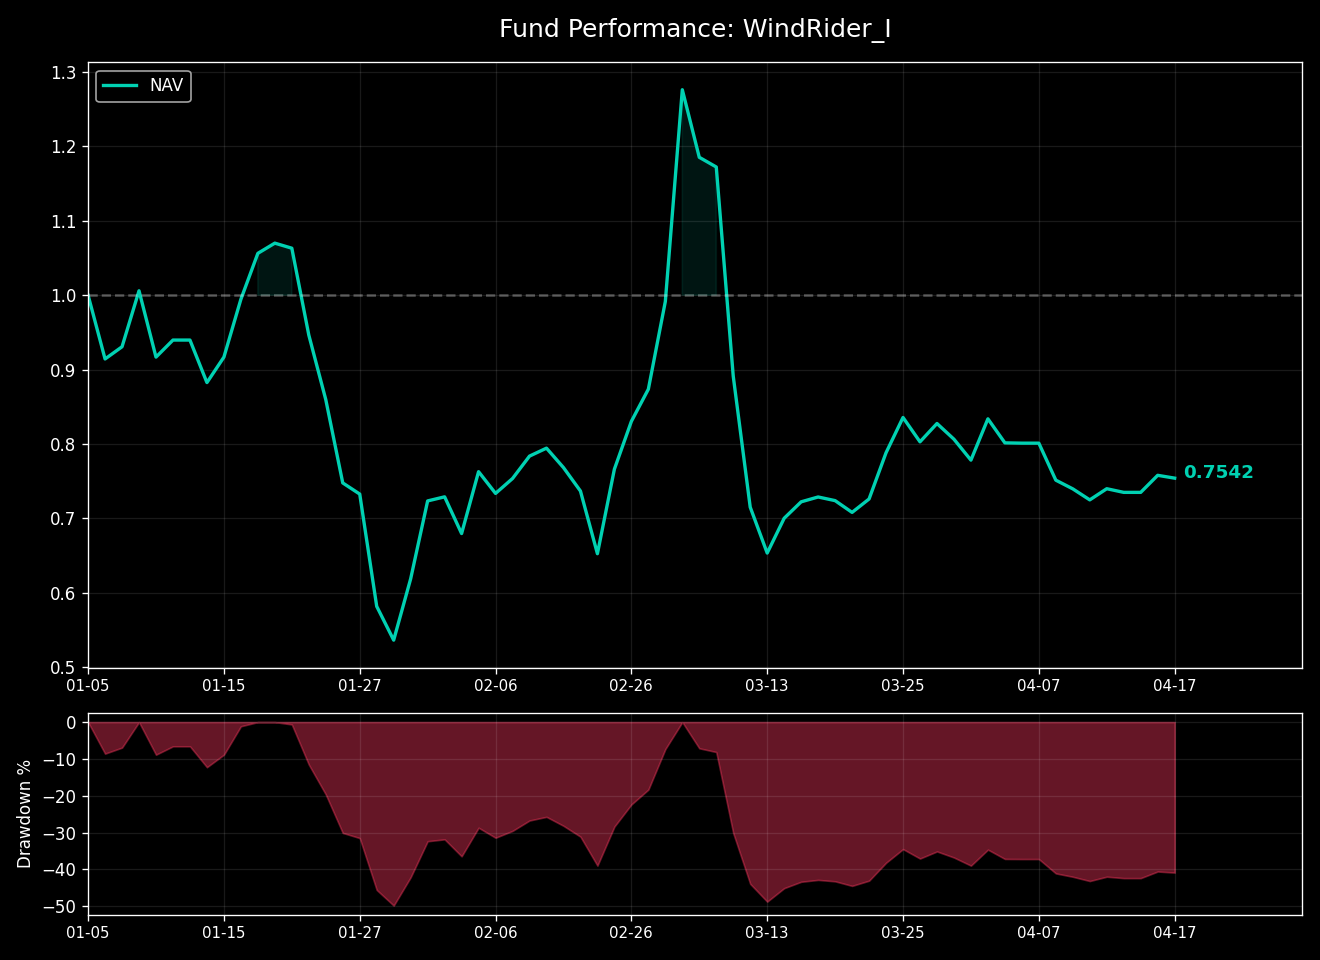
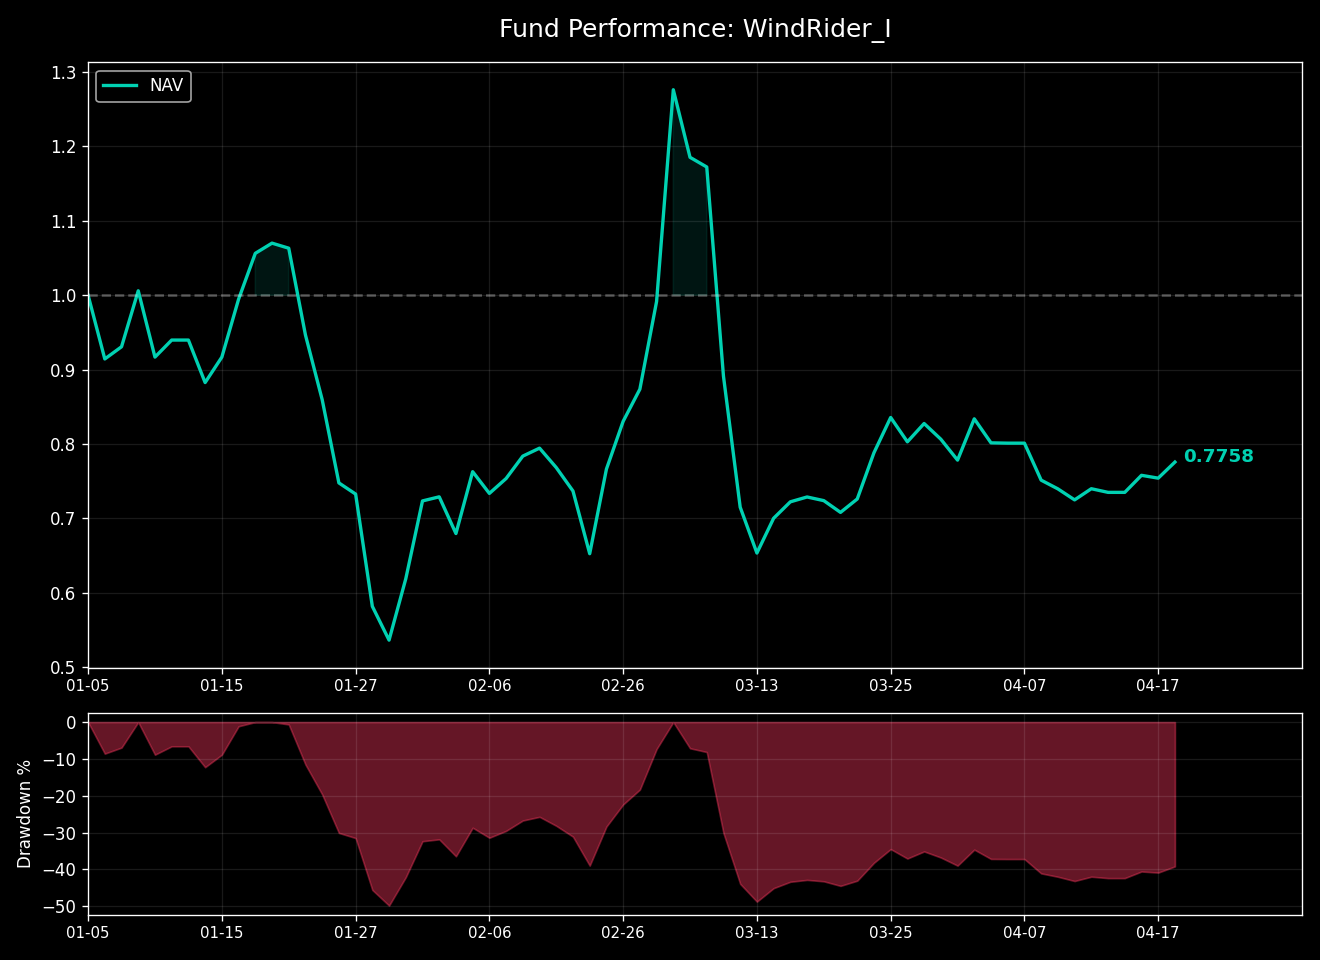
Updated Hugo site content

diff --git a/content/investment/windrider-1.md b/content/investment/windrider-1.md
@@ -1,8 +1,8 @@
 +++
 title = "风舵1号 (WindRider I)  /// 指数"
 summary = "商品期货分形摆动策略，实盘最新净值与核心风险指标。"
-date = 2026-04-17T15:15:04+08:00
-lastmod = 2026-04-17T15:15:04+08:00
+date = 2026-04-20T15:15:03+08:00
+lastmod = 2026-04-20T15:15:03+08:00
 draft = false
 description = "商品期货分形摆动策略实盘"
 +++
@@ -15,24 +15,24 @@ description = "商品期货分形摆动策略实盘"
 
 ### 风舵1号 (WindRider I) &nbsp;&nbsp;<span style="color: #E63946; font-weight: bold;">/</span><span style="color: #F1A73E; font-weight: bold;">/</span><span style="color: #000091; font-weight: bold;">/</span>&nbsp;&nbsp; 指数
 商品期货分形摆动策略实盘<br>
-净值简报 <small>(截至: 2026-04-17)</small>
+净值简报 <small>(截至: 2026-04-20)</small>
 
 |  |  |
 | :--- | :--- |
 | **指数代码：** | WDR1.CTA |
 | **起步日期：** | 2026-01-05 |
-| **最新净值：** | 0.7542 |
-| **今日涨跌：** | -0.50% |
+| **最新净值：** | 0.7758 |
+| **今日涨跌：** | +2.86% |
 
 ===========================
 
 | 核心指标 | |
 | :--- | :--- |
-| **累计涨跌：** | -24.58% |
-| **年化收益：** | -63.56% |
+| **累计涨跌：** | -22.42% |
+| **年化收益：** | -58.62% |
 | **最大回撤：** | -49.85% |
-| **卡玛比率：** | -1.28 |
-| **策略状态：** | 已运行 103 天 |
+| **卡玛比率：** | -1.18 |
+| **策略状态：** | 已运行 106 天 |
 
 ### 净值曲线
 ![风舵1号净值曲线](/images/investment/windrider_nav.png)
